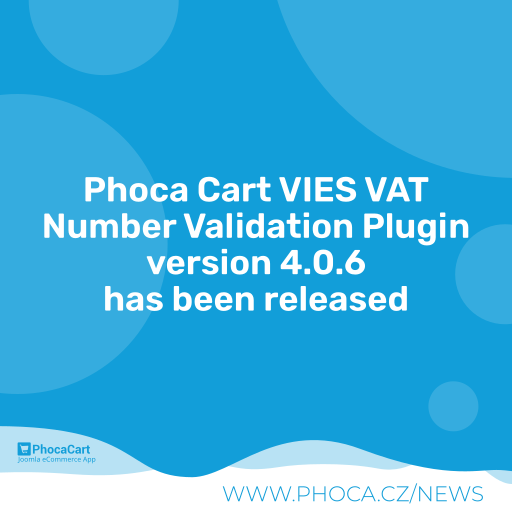
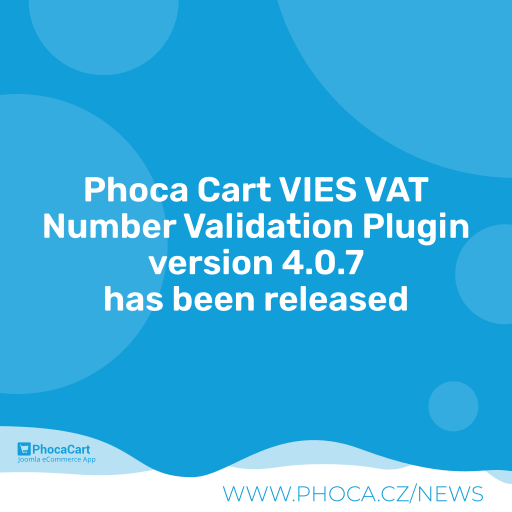
4.0.7

Changed region(s): [[0.2812, 0.4688, 0.7188, 0.5312]]

diff --git a/vies_vat_number_validation.php b/vies_vat_number_validation.php
@@ -354,13 +354,13 @@ class plgPCTVies_Vat_Number_Validation extends JPlugin
 					]);
 
 				// TEST AND DEBUG TODO COMMENT
-				/*$response = new stdClass();
+				/**$response = new stdClass();
 				$response->countryCode = 'DE';
 				$response->vatNumber = '123456789';
 				$response->requestDate = "2023-02-23+01:00 ~ 2023-02-23+01:00";
 				$response->valid = TRUE;
 				$response->name = 'Test GmbH';
-				$response->address = 'Teststrasse 13; München; 80331';*/
+				$response->address = 'Teststrasse 13; München; 80331';**/
 				// END TEST AND DEBUG
 
 				$paramsUser['vat_country_code_address'] = '';
@@ -376,12 +376,19 @@ class plgPCTVies_Vat_Number_Validation extends JPlugin
 				$paramsUser['vat_name'] = isset($response->name) ? PhocaCartText::filterValue($response->name, 'text'): '';
 				$paramsUser['vat_address'] = isset($response->address) ? PhocaCartText::filterValue($response->address, 'text') : '';
 
-
-				$paramsUser['vat_vies_message']      = Text::_('PLG_PCT_VIES_VAT_NUMBER_VALIDATION_SUCCESS_VAT_NUMBER_VALID') . ' ('.Text::_('PLG_PCT_VIES_VAT_NUMBER_VAT_NUMBER'). ': '.PhocaCartText::filterValue($vatId, 'alphanumeric').')';
-				$paramsUser['vat_vies_message_type'] = 'success';
-				$data->vat_valid = 1;
+				if ((int)$paramsUser['vat_valid'] == 1) {
+					$paramsUser['vat_vies_message']      = Text::_('PLG_PCT_VIES_VAT_NUMBER_VALIDATION_SUCCESS_VAT_NUMBER_VALID') . ' (' . Text::_('PLG_PCT_VIES_VAT_NUMBER_VAT_NUMBER') . ': ' . PhocaCartText::filterValue($vatId, 'alphanumeric') . ')';
+					$paramsUser['vat_vies_message_type'] = 'success';
+					$data->vat_valid                     = 1;
+				} else {
+					$paramsUser['vat_vies_message']      = Text::_('PLG_PCT_VIES_VAT_NUMBER_VALIDATION_VAT_NUMBER_NOT_VALID') . ' (' . Text::_('PLG_PCT_VIES_VAT_NUMBER_VAT_NUMBER') . ': ' . PhocaCartText::filterValue($vatId, 'alphanumeric') . ')';
+					$paramsUser['vat_vies_message_type'] = 'error';
+					$data->vat_valid                     = 0;
+				}
 
 				$data->params_user = json_encode($paramsUser);
+
+
 				return;
 
 			} catch(Exception $e) {

diff --git a/README.MD b/README.MD
@@ -56,7 +56,7 @@ Phoca Cart Tax - VIES VAT Number Validation Plugin - tax method for Phoca Cart c
 
 ## Version (Joomla! 4.x)
 
-4.0.6
+4.0.7
 
 
 
